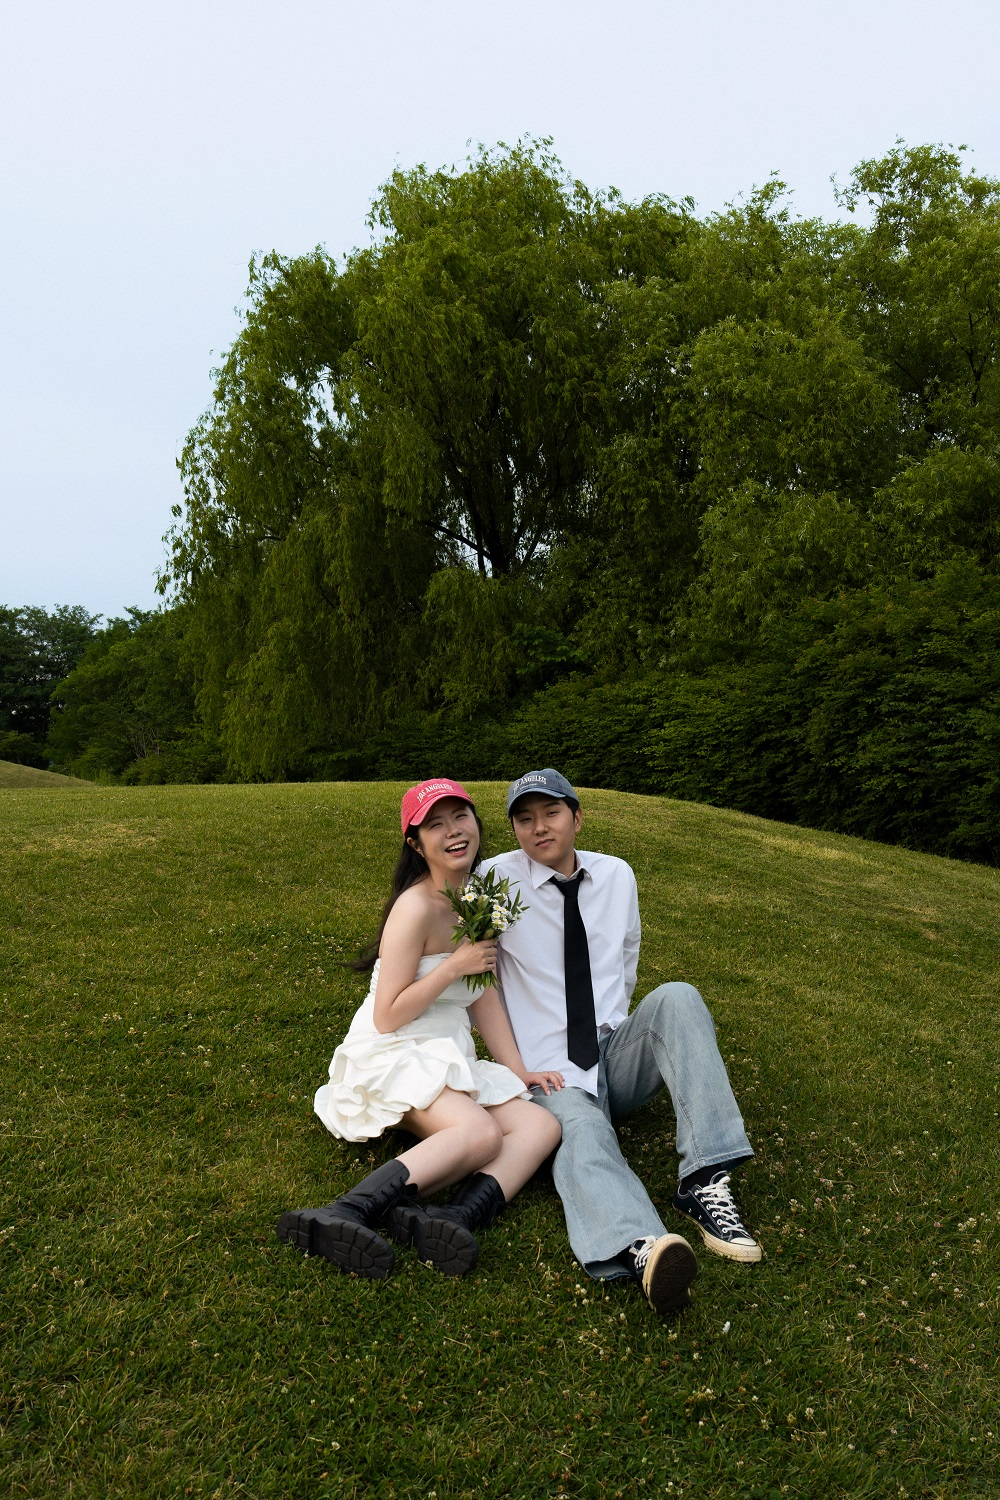
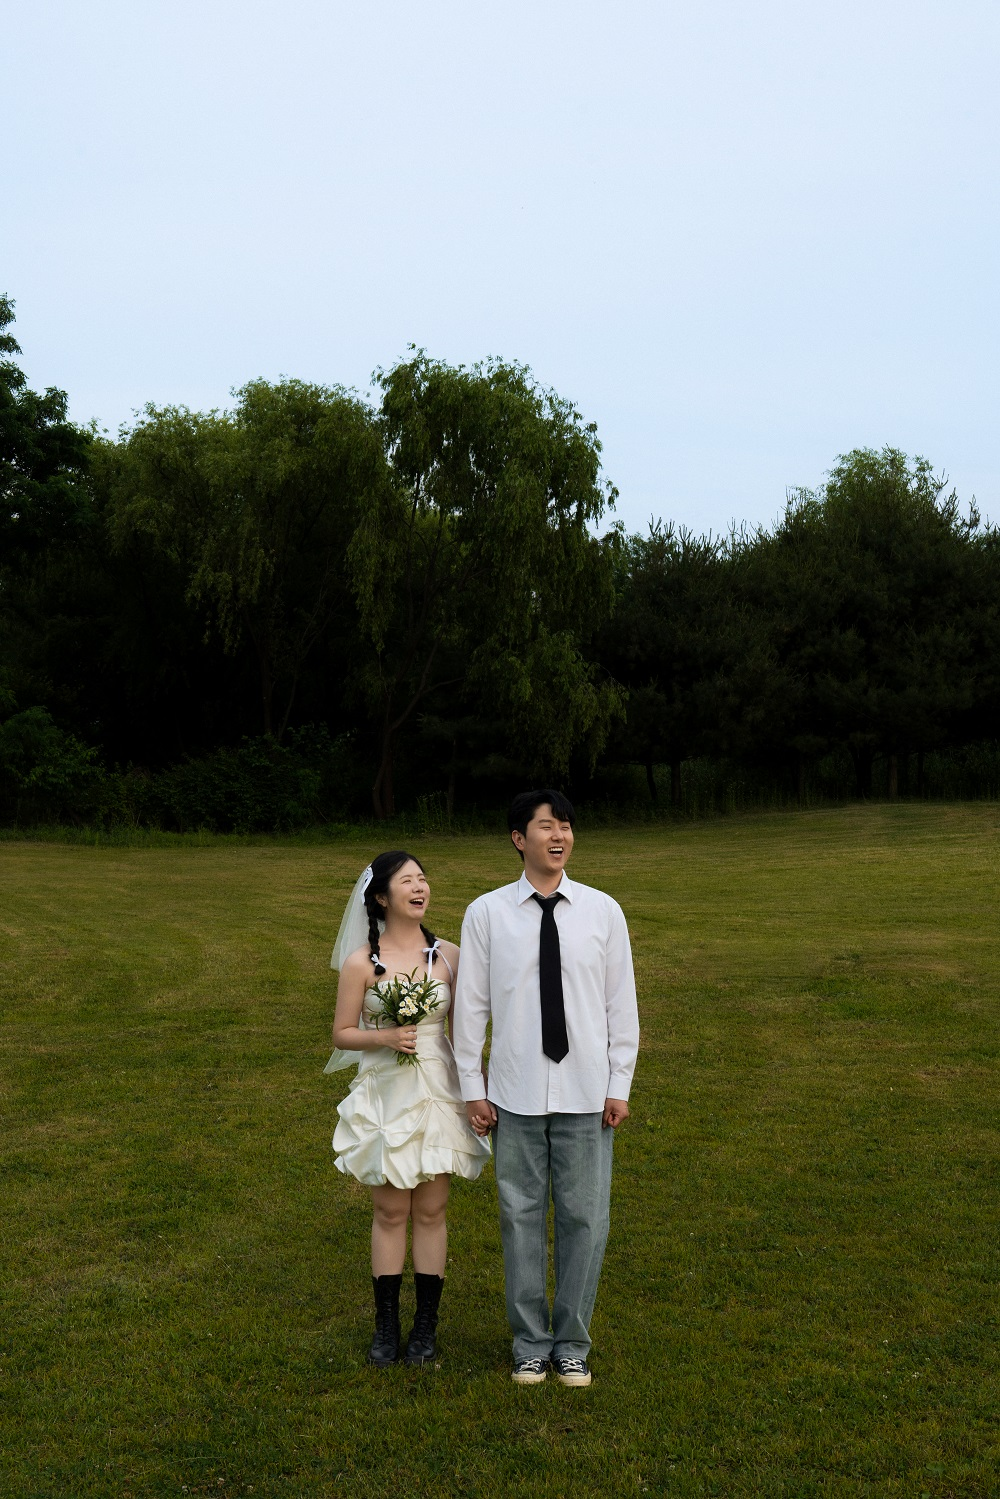
20260803_BGM 오류

diff --git a/index.html b/index.html
@@ -8,7 +8,7 @@
     <!-- 📌 카카오톡 등 SNS 공유용 썸네일 및 정보 (Open Graph) -->
     <meta property="og:title" content="윤기 & 예은 결혼합니다 💍">
     <meta property="og:description" content="저희 두 사람의 새로운 시작에 초대합니다.">
-    <!-- 💡 URL 뒤에 ?v=2 를 붙여 카카오톡의 과거 기억(캐시)을 강제로 지웁니다 -->
+    <!-- 💡 URL 뒤에 ?v=3 를 붙여 카카오톡의 과거 기억(캐시)을 강제로 지웁니다 -->
     <meta property="og:image" content="https://yungi-yeeun.vercel.app/images/main.jpg?v=3">
     <meta property="og:url" content="https://yungi-yeeun.vercel.app">
     
@@ -16,7 +16,6 @@
         /* 기본 웹 폰트 및 스타일 초기화 */
         @import url('https://cdn.jsdelivr.net/gh/orioncactus/pretendard/dist/web/static/pretendard.css');
         @import url('https://fonts.googleapis.com/css2?family=Playfair+Display:ital,wght@0,400;0,600;1,400&display=swap');
-        /* 👇 여기에 필기체 폰트 추가 */
         @import url('https://fonts.googleapis.com/css2?family=Great+Vibes&display=swap');
         
         body { font-family: 'Pretendard', sans-serif; margin: 0; padding: 0; background-color: #f7f7f7; color: #333; text-align: center; }
@@ -41,21 +40,21 @@
         
         .cover-lettering { 
             position: absolute; 
-            top: 40px; /* 💡 화면 위쪽에서 40px 만큼의 여백을 둡니다. (원하시면 숫자를 조절하세요) */
+            top: 40px; 
             left: 50%; 
-            transform: translateX(-50%); /* 💡 세로 중앙 정렬을 해제하고 가로 중앙 정렬만 유지합니다 */
+            transform: translateX(-50%); 
             color: #fff; 
             width: 100%; 
             text-shadow: 1px 1px 6px rgba(0,0,0,0.4); 
         }
         .cover-lettering .main-names { font-family: 'Playfair Display', serif; font-size: 2.8em; font-style: italic; margin: 0 0 10px 0; font-weight: 400; min-height: 1.2em; }
         .cover-lettering .main-date { 
-            font-family: 'Great Vibes', cursive; /* 부드러운 필기체 적용 */
-            font-size: 1.8em; /* 필기체는 기본 크기가 작아 큼직하게 키움 */
-            letter-spacing: 1px; /* 자간 축소 (필기체는 글자가 이어져야 예쁨) */
+            font-family: 'Great Vibes', cursive; 
+            font-size: 1.8em; 
+            letter-spacing: 1px; 
             margin: 0; 
             font-weight: 400; 
-            text-transform: none; /* 강제 대문자 해제 */
+            text-transform: none; 
             min-height: 1.2em; 
         }
 
@@ -73,7 +72,7 @@
         /* 📸 테트리스(Grid) 갤러리 스타일 */
         .gallery { display: grid; grid-template-columns: repeat(2, 1fr); grid-auto-rows: 180px; gap: 10px; padding: 0 10px; grid-auto-flow: dense; }
         .gallery div { border-radius: 8px; overflow: hidden; background-color: #eee; }
-        .gallery img { width: 100%; height: 100%; object-fit: cover; display: block; cursor: pointer; } /* 클릭 가능함을 표시(cursor) */
+        .gallery img { width: 100%; height: 100%; object-fit: cover; display: block; cursor: pointer; } 
 
         .size-4x { grid-column: span 2; grid-row: span 2; }
         .size-2x-tall { grid-row: span 2; }
@@ -81,12 +80,12 @@
 
         /* 💡 1:1 비율 4장 한 줄 배치 (여백 제거용) */
         .gallery.row-of-4-standalone { 
-            grid-template-columns: repeat(4, 1fr); /* 4칸으로 쪼개기 */
-            grid-auto-rows: auto; /* 고정 높이를 해제하여 빈 여백 삭제 */
-            margin: 10px 0; /* 위아래 갤러리와 똑같이 10px 간격 유지 */
+            grid-template-columns: repeat(4, 1fr); 
+            grid-auto-rows: auto; 
+            margin: 10px 0; 
         }
         .gallery.row-of-4-standalone div {
-            aspect-ratio: 1; /* 사진을 완벽한 1:1 정사각형 비율로 맞춤 */
+            aspect-ratio: 1; 
         }
         
         /* 동영상 영역 */
@@ -113,10 +112,10 @@
 
         /* 🔍 라이트박스(사진 확대) 스타일 */
         .lightbox {
-            display: none; /* 기본은 숨김 */
+            display: none; 
             position: fixed; top: 0; left: 0; width: 100%; height: 100%;
-            background-color: rgba(0, 0, 0, 0.9); /* 검은색 반투명 배경 */
-            z-index: 2000; /* BGM 버튼보다 위에 표시 */
+            background-color: rgba(0, 0, 0, 0.9); 
+            z-index: 2000; 
             align-items: center; justify-content: center;
         }
         .lightbox img {
@@ -170,7 +169,7 @@
                 <div><img src="./images/photo4.jpg" onerror="this.src='https://via.placeholder.com/240x180?text=Photo+4'"></div>
             </div>
             
-            <!-- 💡 [중단] 1:1 비율 사진 4개 (여백이 생기지 않도록 독립된 영역으로 묶음) -->
+            <!-- 💡 [중단] 1:1 비율 사진 4개 -->
             <div class="gallery row-of-4-standalone">
                 <div><img src="./images/photo7.jpg" onerror="this.src='https://via.placeholder.com/120?text=P7'"></div>
                 <div><img src="./images/photo8.jpg" onerror="this.src='https://via.placeholder.com/120?text=P8'"></div>
@@ -225,9 +224,9 @@
             © 2026 Yungi & Yeeun
         </footer>
 
-        <!-- BGM 오디오 및 버튼 -->
-        <audio id="bgm-audio" src="./audio/bgm.mp3" loop autoplay></audio>
-        <button id="bgm-toggle" class="bgm-btn playing"><span>⏸</span> BGM 끄기</button>
+        <!-- 💡 브라우저 오디오 차단 방지를 위해 autoplay 속성 제거 -->
+        <audio id="bgm-audio" src="./audio/bgm.mp3" loop></audio>
+        <button id="bgm-toggle" class="bgm-btn"><span>🎵</span> BGM 켜기</button>
         
         <!-- 💡 사진 확대 보기 (라이트박스) 팝업 영역 -->
         <div id="lightbox" class="lightbox">
@@ -271,13 +270,14 @@
             setTimeout(typeName, 500);
         });
 
-        // 2. BGM 제어 및 스마트폰 자동재생 우회 기능
+        // 2. BGM 제어 및 터치 시 자동 재생 기능
         const bgmAudio = document.getElementById('bgm-audio');
         const bgmToggleBtn = document.getElementById('bgm-toggle');
         let isPlaying = false; 
         
-        // 버튼 클릭 시 재생/정지
-        bgmToggleBtn.addEventListener('click', function() {
+        // 버튼 직접 클릭 시
+        bgmToggleBtn.addEventListener('click', function(e) {
+            e.stopPropagation(); // 버튼 터치가 전체 화면 터치로 겹치지 않게 차단
             if (isPlaying) {
                 bgmAudio.pause();
                 bgmToggleBtn.classList.remove('playing');
@@ -290,7 +290,7 @@
             isPlaying = !isPlaying;
         });
 
-        // 💡 하객이 화면을 터치하거나 스크롤하는 순간 BGM 재생
+        // 화면 터치 시 한 번만 자동 재생 시도
         const startBgmOnInteraction = () => {
             if (!isPlaying) {
                 let playPromise = bgmAudio.play();
@@ -299,20 +299,19 @@
                         isPlaying = true;
                         bgmToggleBtn.classList.add('playing');
                         bgmToggleBtn.innerHTML = '<span>⏸</span> BGM 끄기';
-                    }).catch(e => { console.log("재생 보류됨"); });
+                    }).catch(error => {
+                        console.log("브라우저 자동 재생 정책에 의해 보류되었습니다.");
+                    });
                 }
             }
-            // 한 번 켜지면 더 이상 이벤트를 발생시키지 않음
+            // 이벤트가 한 번 실행되면 리스너 해제 (중복 실행 방지)
             document.removeEventListener('touchstart', startBgmOnInteraction);
             document.removeEventListener('click', startBgmOnInteraction);
-            document.removeEventListener('scroll', startBgmOnInteraction);
         };
 
-        // 이벤트 리스너 등록
+        // 스크롤 대신 확실한 '터치'나 '클릭' 이벤트에만 반응하도록 설정
         document.addEventListener('touchstart', startBgmOnInteraction, {once: true});
         document.addEventListener('click', startBgmOnInteraction, {once: true});
-        document.addEventListener('scroll', startBgmOnInteraction, {once: true});
-
 
         // 3. 🔍 사진 확대(라이트박스) 및 슬라이드 기능
         const lightbox = document.getElementById('lightbox');
@@ -345,7 +344,6 @@
         lightbox.addEventListener('click', (e) => {
             if (e.target === lightbox) closeLightbox();
         });
-
 
         // 4. 불펌 및 캡처 방지 (PC 우클릭 및 단축키 차단)
         document.addEventListener('contextmenu', function(e) { e.preventDefault(); });
